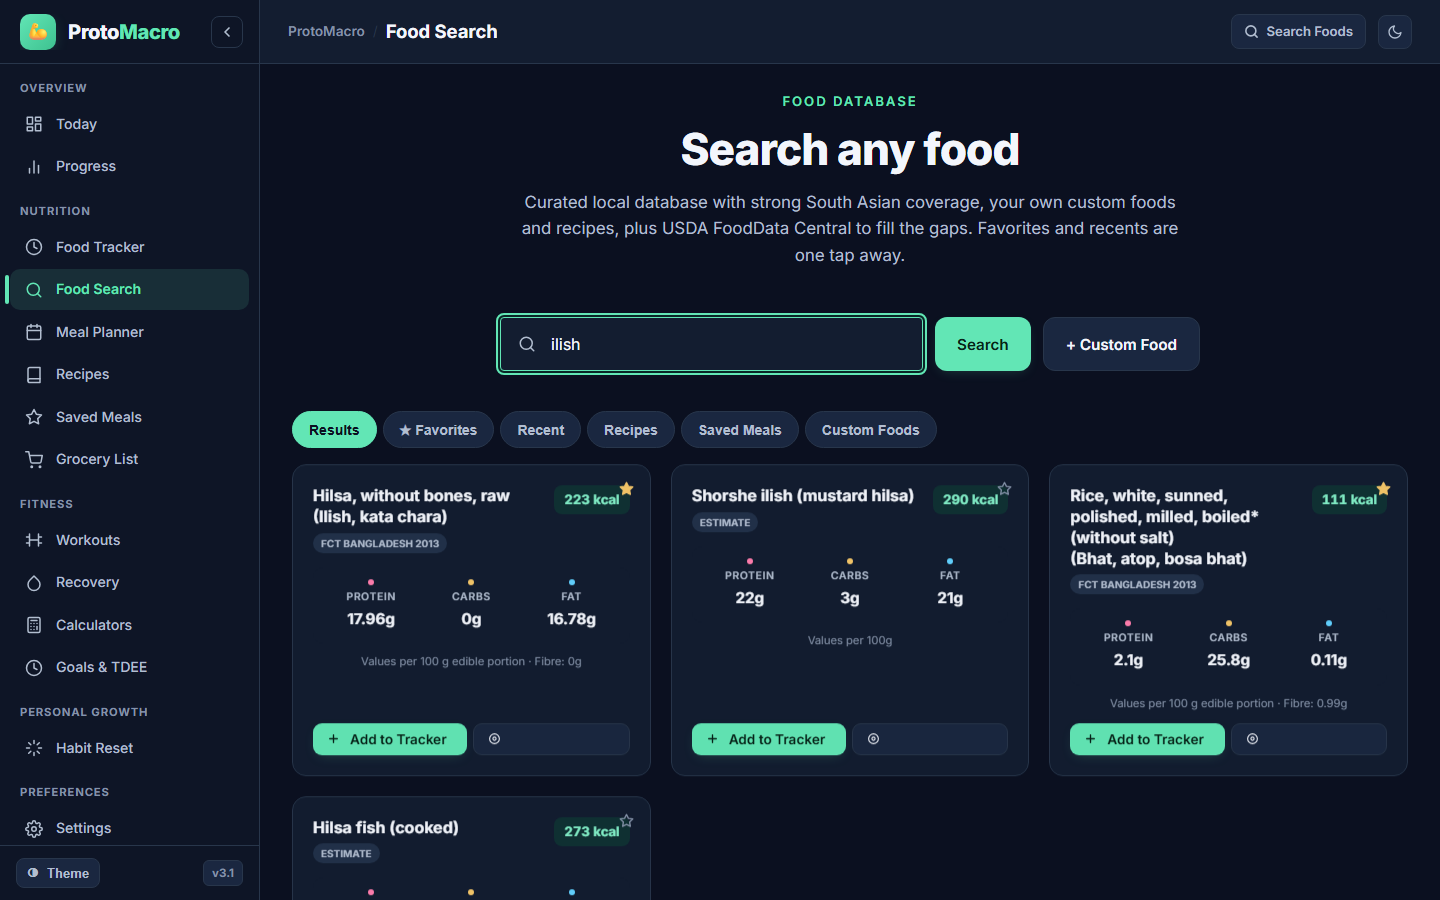
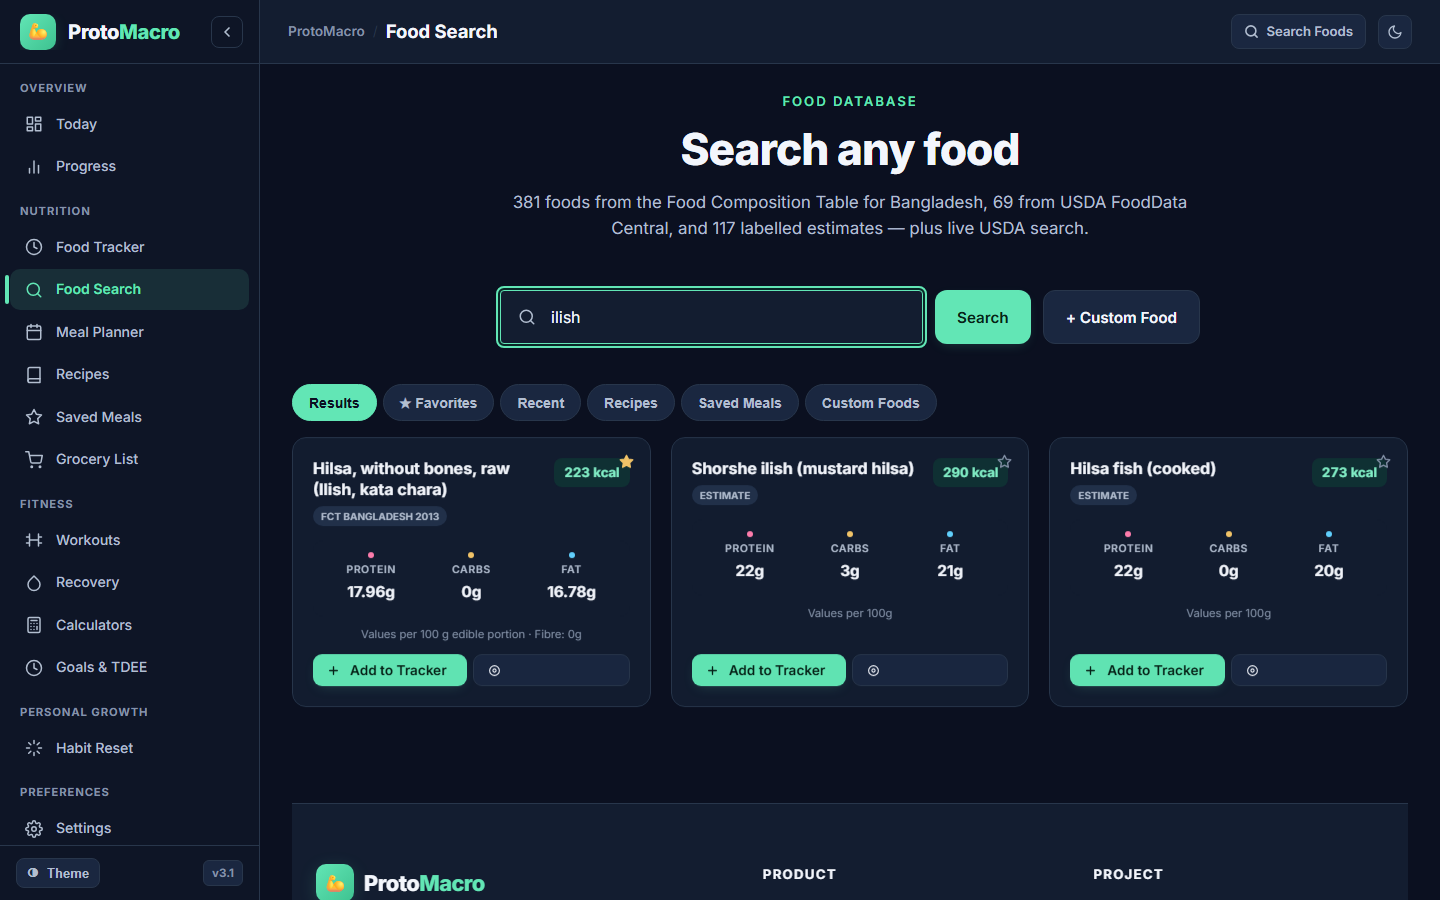
E2: search ranking, calorie delta label, runtime hero counts, README & screenshot polish

diff --git a/tests/core.test.js b/tests/core.test.js
@@ -10,6 +10,9 @@ import {
 import { computeDailyScore, macroConsistency, weightStats, epley1RM, trainingVolume, habitStreak, movingAverage, personalRecords } from '../js/core/metrics.js';
 import { toDateStr, today } from '../js/datetime.js';
 import { calcMacrosFor } from '../js/mode.js';
+import { STATE } from '../js/state.js';
+import { scoreLocal, searchLocal } from '../js/search.js';
+import { formatCalorieDelta } from '../js/dashboard.js';
 
 const makeId = () => 'test_' + Math.random().toString(36).slice(2);
 
@@ -405,5 +408,39 @@ describe('migrateV2toV3', () => {
     const v3 = migrateV2toV3(v2);
     expect(v3.favorites.foods).toEqual(['curated_protein_shake_milk_based']);
     expect(v3.favorites.foods[0].startsWith('fdc_')).toBe(false);
+  });
+});
+
+describe('search ranking and calorie delta label', () => {
+  it('excludes favorited non-matching foods and ranks favorited matches first', () => {
+    const prevFavs = STATE.favorites.foods;
+    const prevRecents = STATE.recents;
+    try {
+      // Favorite white rice (non-matching for "ilish") and a matching ilish dish
+      STATE.favorites.foods = ['fctb_01_0041', 'curated_shorshe_ilish_mustard_hilsa'];
+      STATE.recents = [];
+      const results = searchLocal('ilish');
+      expect(results.some((f) => f.id === 'fctb_01_0041')).toBe(false);
+      expect(results.length).toBeGreaterThan(0);
+      expect(results[0].id).toBe('curated_shorshe_ilish_mustard_hilsa');
+    } finally {
+      STATE.favorites.foods = prevFavs;
+      STATE.recents = prevRecents;
+    }
+  });
+
+  it('gives index 0 the largest recent boost and ignores non-matching recents', () => {
+    const hilsa = { id: 'fctb_09_0033', name: 'Hilsa, without bones, raw', localName: 'Ilish', tags: ['ilish'] };
+    const rice = { id: 'fctb_01_0041', name: 'Rice, white', localName: 'Bhat', tags: ['rice'] };
+    const favs = new Set();
+    expect(scoreLocal(rice, 'ilish', favs, 0)).toBe(0);
+    expect(scoreLocal(hilsa, 'ilish', favs, 0)).toBeGreaterThan(scoreLocal(hilsa, 'ilish', favs, 1));
+    expect(scoreLocal(hilsa, 'ilish', favs, 1)).toBeGreaterThan(scoreLocal(hilsa, 'ilish', favs, -1));
+  });
+
+  it('formats remaining, on-target, and over-goal calorie delta labels', () => {
+    expect(formatCalorieDelta(1950, 2200)).toEqual({ text: '250 kcal remaining', over: false });
+    expect(formatCalorieDelta(2200, 2200)).toEqual({ text: 'On target', over: false });
+    expect(formatCalorieDelta(2390, 2200)).toEqual({ text: '190 kcal over', over: true });
   });
 });

diff --git a/js/search.js b/js/search.js
@@ -61,7 +61,14 @@ const levenshtein1 = (a, b) => {
   return true;
 };
 
-const scoreLocal = (food, queryLc, favSet, recentRank) => {
+export const scoreLocal = (food, queryLc, favSet, recentRank) => {
+  if (!queryLc) {
+    let score = 0;
+    if (favSet.has(food.id)) score += 10;
+    if (recentRank >= 0) score += Math.max(0, 5 - recentRank);
+    return score;
+  }
+
   let score = 0;
   const name = food.name.toLowerCase();
   const localName = (food.localName || '').toLowerCase();
@@ -86,12 +93,14 @@ const scoreLocal = (food, queryLc, favSet, recentRank) => {
     }
   }
 
-  if (favSet.has(food.id)) score += 10;
-  if (recentRank > 0) score += Math.max(0, 5 - recentRank);
+  if (score > 0) {
+    if (favSet.has(food.id)) score += 10;
+    if (recentRank >= 0) score += Math.max(0, 5 - recentRank);
+  }
   return score;
 };
 
-const searchLocal = (query) => {
+export const searchLocal = (query) => {
   const q = query.toLowerCase().trim();
   const favSet = new Set(STATE.favorites.foods);
   const recentIdx = new Map(STATE.recents.map((r, i) => [r.id, i]));
@@ -710,8 +719,21 @@ export function initSearch() {
     form:    $('#searchForm'),
     input:   $('#searchInput'),
     results: $('#searchResults'),
-    tabs:    $('#searchTabs')
+    tabs:    $('#searchTabs'),
+    heroSub: $('#searchHeroSubtitle')
   };
+  if (dom.heroSub) {
+    let fctb = 0;
+    let fdc = 0;
+    let est = 0;
+    for (const f of FOODS_DB) {
+      const ds = f.sourceInfo?.dataset;
+      if (ds === 'fctb_2013') fctb++;
+      else if (ds === 'fdc_foundation' || ds === 'fdc_sr_legacy') fdc++;
+      else est++;
+    }
+    dom.heroSub.textContent = `${fctb} foods from the Food Composition Table for Bangladesh, ${fdc} from USDA FoodData Central, and ${est} labelled estimates — plus live USDA search.`;
+  }
   if (!dom.form) return;
   bindEvents();
 }

diff --git a/index.html b/index.html
@@ -234,7 +234,7 @@
           <span class="today-cal-val" id="todayCalConsumed">0</span>
           <span class="today-cal-unit">/ <span id="todayCalGoal">2000</span> kcal</span>
         </div>
-        <div class="today-cal-remaining"><span id="todayCalRemaining">2000</span> kcal remaining</div>
+        <div class="today-cal-remaining"><span id="todayCalRemaining">2000 kcal remaining</span></div>
         <div class="today-rings" id="todayMacroRings"></div>
         <div class="today-quick">
           <button class="quick-btn" data-quick="food">➕ Add Food</button>
@@ -406,7 +406,7 @@
     <div class="section-header">
       <div class="section-eyebrow">Food Database</div>
       <h2 class="section-title">Search any food</h2>
-      <p class="section-subtitle">Curated local database with strong South Asian coverage, your own custom foods and recipes, plus USDA FoodData Central to fill the gaps. Favorites and recents are one tap away.</p>
+      <p class="section-subtitle" id="searchHeroSubtitle">Sourced local food database — plus live USDA search.</p>
     </div>
 
     <form class="search-bar" id="searchForm">

diff --git a/js/dashboard.js b/js/dashboard.js
@@ -140,6 +140,13 @@ const renderRecents = () => {
   `).join('');
 };
 
+export const formatCalorieDelta = (consumed, goal) => {
+  const diff = Math.round(goal - consumed);
+  if (diff === 0) return { text: 'On target', over: false };
+  if (diff < 0) return { text: `${Math.abs(diff).toLocaleString()} kcal over`, over: true };
+  return { text: `${diff.toLocaleString()} kcal remaining`, over: false };
+};
+
 const render = () => {
   if (!dom) return;
   const totals = getTrackerTotals();
@@ -152,7 +159,9 @@ const render = () => {
   dom.modeChip.textContent = `${mode.emoji} ${mode.label} · ${goal.toLocaleString()} kcal`;
   animateNumber(dom.calConsumed, Math.round(totals.cal), 500);
   dom.calGoal.textContent = goal.toLocaleString();
-  dom.calRemaining.textContent = Math.max(0, Math.round(goal - totals.cal)).toLocaleString();
+  const delta = formatCalorieDelta(totals.cal, goal);
+  dom.calRemaining.textContent = delta.text;
+  dom.calRemaining.style.color = delta.over ? 'var(--warning)' : '';
 
   renderMacroRings(totals);
 

diff --git a/README.md b/README.md
@@ -7,13 +7,18 @@ Local-first nutrition & fitness PWA backed by a reproducible DuckDB food composi
 
 **Live Demo:** https://tahmidshafi.github.io/ProtoMacro/
 
+### What I built
+- **Sourced 567-food catalog via a tested DuckDB pipeline:** `381` foods from Bangladesh's FCTB 2013, `69` from USDA FDC SR Legacy, and `117` labelled estimates (`565` Atwater-checked, deterministic SHA-256 output).
+- **Audit of legacy values + safe `v2 → v3` ID migration:** Measured hand-entered macro error against exact primary-source matches (`n = 74`) and migrated `local_0`..`local_193` across saved favorites, recents, planner, recipes, and saved meals without altering logged history.
+- **Offline-first PWA with automated CI:** Vanilla JS + Workbox PWA verified by `104` Vitest unit tests, `8` pytest pipeline tests, and a `14`-route Playwright desktop/mobile UI audit.
+
 ![ProtoMacro Today Dashboard](docs/screenshots/today-desktop.png)
 
 ---
 
 ## The Problem
 
-Mainstream nutrition trackers lack verified Bangladeshi food composition data, forcing users to rely on unverified crowd-sourced entries or rough personal estimates. ProtoMacro originally shipped with 194 hand-entered foods (`local_0`..`local_193`) carrying unverified macros and positional IDs. Auditing those legacy entries against exact primary-source matches (`n = 74`, source `kcal >= 20`) showed a **median 2.5%** and **90th-percentile 34.9%** absolute calorie error (and **13.6% median / 172.7% 90th-percentile** fat error). Replacing that static list with an automated DuckDB ETL pipeline grounds the catalog in primary national and USDA reference tables while migrating existing user logs safely.
+Bangladeshi foods are thinly covered by the reference databases most trackers build on, and ProtoMacro's original list of 194 foods was hand-entered with no sources. Auditing those legacy entries against exact primary-source matches (`n = 74`, source `kcal >= 20`) showed a **median 2.5%** and **90th-percentile 34.9%** absolute calorie error (and **13.6% median / 172.7% 90th-percentile** fat error). These cover the 74 legacy foods with exact source matches; the 90 with no match remain labelled estimates. Replacing that static list with an automated DuckDB ETL pipeline grounds the catalog in primary national and USDA reference tables while migrating saved favorites, recents, planner, recipes and saved meals without changing any logged history.
 
 ![Accuracy of Legacy Hand-Entered Values](docs/accuracy_of_hand_entered_values.svg)
 
@@ -47,7 +52,7 @@ flowchart LR
 | **Flag-don't-drop validation** | Non-fatal checks (`atwater_mismatch`, `proximates_over_100g`, `borrowed_value`, `crude_fibre_fallback`, `suspect_value`) annotate rows rather than silently dropping real foods; hard errors (negative macros, duplicate IDs, missing provenance) fail the build. |
 | **Deterministic output** | Sorted SQL queries, `sort_keys=True` JSON serialization, and fixed-metadata SVG generation keep `foods_json_sha256` identical across runs and verifiable in CI via `git diff --exit-code js/data/`. |
 | **Provenance on every row** | JSON Schema enforces `source.{dataset, code, version, citation_key}` and `basis` on all 567 catalog items (`additionalProperties: false`). |
-| **Stable IDs + `v2 → v3` migration** | Positional `local_0`..`local_193` IDs in `favorites`, `recents`, `planner`, `recipes`, `savedMeals`, and `log` are rewritten deterministically via `id_migration_v2_to_v3.json` inside `normalizeState()`. |
+| **Stable IDs + `v2 → v3` migration** | Positional `local_0`..`local_193` IDs in `favorites`, `recents`, `planner`, `recipes`, and `savedMeals` are rewritten deterministically via `id_migration_v2_to_v3.json` inside `normalizeState()`, leaving logged history untouched. |
 | **`suspect_value` handling** | Known source anomalies (e.g., FCTB `08_0030` orange juice at 9 kcal / 97.7% water) are tracked in `pipeline/mappings/source_anomalies.csv` without mutating source numbers, ranked below unflagged results in search, and labeled `value disputed` with a reason tooltip. |
 | **What the Atwater check proves** | In FCTB 2013, energy (`ENERC`) is itself derived from proximates via Atwater/INFOODS factors. A 0.35% median discrepancy validates parsing and internal consistency — not real-world laboratory accuracy. |
 
@@ -71,7 +76,7 @@ Full report: [`pipeline/reports/data_quality.md`](pipeline/reports/data_quality.
 - **Today Dashboard:** Daily calorie/macro rings, completion score, quick-log actions, recovery summary, and recent foods.
 - **Sourced Food Search:** Local instant search across 567 FCTB/USDA/curated items with source badges, Bengali/transliteration tags, `suspect_value` warnings, and optional live USDA FoodData Central lookup.
 - **Food Tracker & Custom Foods:** Log meals by grams or servings, create custom foods, build multi-ingredient recipes, and save reusable meals.
-- **Meal Planner & Grocery List:** Plan weekly/daily meal slots and aggregate ingredients into a checkable grocery list.
+- **Meal Planner & Grocery List:** Plan `breakfast`, `lunch`, `dinner`, and `snacks` meal slots and aggregate ingredients into a checkable grocery list.
 - **Progress Analytics:** Weight trend, calorie/macro adherence, sleep, and workout volume charts powered by Chart.js.
 - **Workouts, Recovery & Habits:** Log strength sessions, track water/supplements/sleep, and maintain daily habit streaks.
 - **Goals, TDEE & Calculators:** Mifflin-St Jeor TDEE/BMI calculators with cut/maintain/bulk macro targets.
@@ -102,7 +107,7 @@ Full report: [`pipeline/reports/data_quality.md`](pipeline/reports/data_quality.
 
 ## Testing & CI
 
-- **Vitest (`npm test`):** `6` test files, `101` tests covering state normalization, `v2 → v3` ID migration, meal planner solver, grocery aggregation, navigation, and workout/recovery logic.
+- **Vitest (`npm test`):** `6` test files, `104` tests covering state normalization, `v2 → v3` ID migration, search ranking, calorie delta labels, meal planner solver, grocery aggregation, navigation, and workout/recovery logic.
 - **pytest (`pytest pipeline/tests -v`):** `8` tests covering idempotent SHA-256 extraction, FCTB marker/energy parsing, `infer_state` rules, DuckDB validation errors/flags, `approximate` + `suspect_value` policy, fixture determinism, and JSON Schema / migration completeness.
 - **Playwright UI Audit (`npm run audit:ui`):** Visits `14` desktop routes (`1440px`) and `14` mobile routes (`390px`) against `vite preview`, verifying `0` horizontal overflows, `0` console errors, and `0` page errors.
 - **GitHub Actions:** [`pipeline.yml`](.github/workflows/pipeline.yml) runs `pytest` on PRs modifying `pipeline/**` or `js/data/**` and verifies deterministic regeneration on `workflow_dispatch`; [`deploy-pages.yml`](.github/workflows/deploy-pages.yml) builds and deploys `dist/` on `main`.
@@ -116,7 +121,7 @@ Full report: [`pipeline/reports/data_quality.md`](pipeline/reports/data_quality.
 ```bash
 npm ci
 npm run dev          # local dev server
-npm test             # 101 Vitest unit tests
+npm test             # 104 Vitest unit tests
 npm run lint         # ESLint check
 npm run build        # production build -> dist/
 ```
